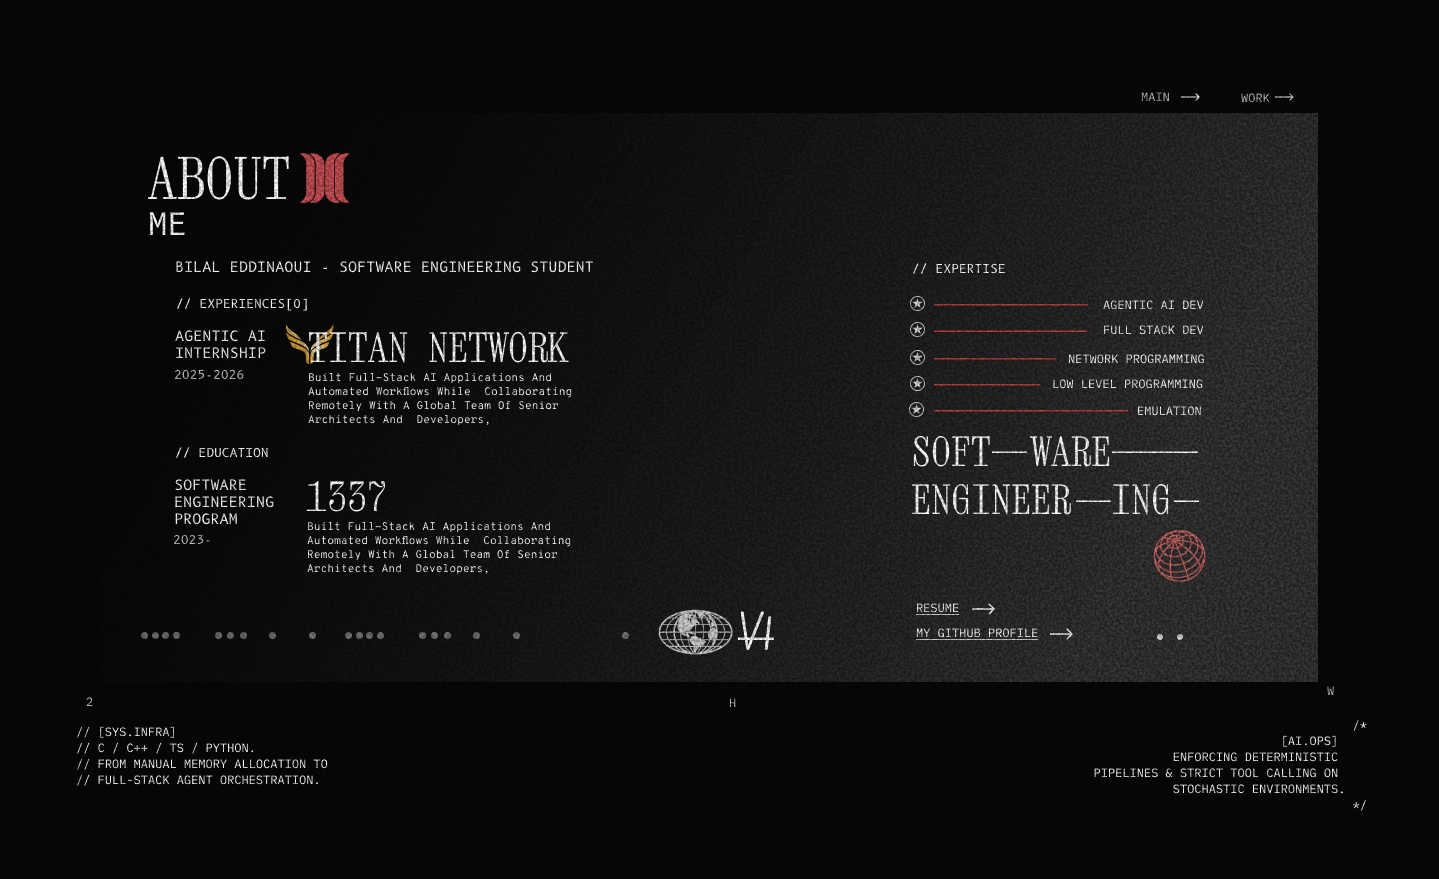
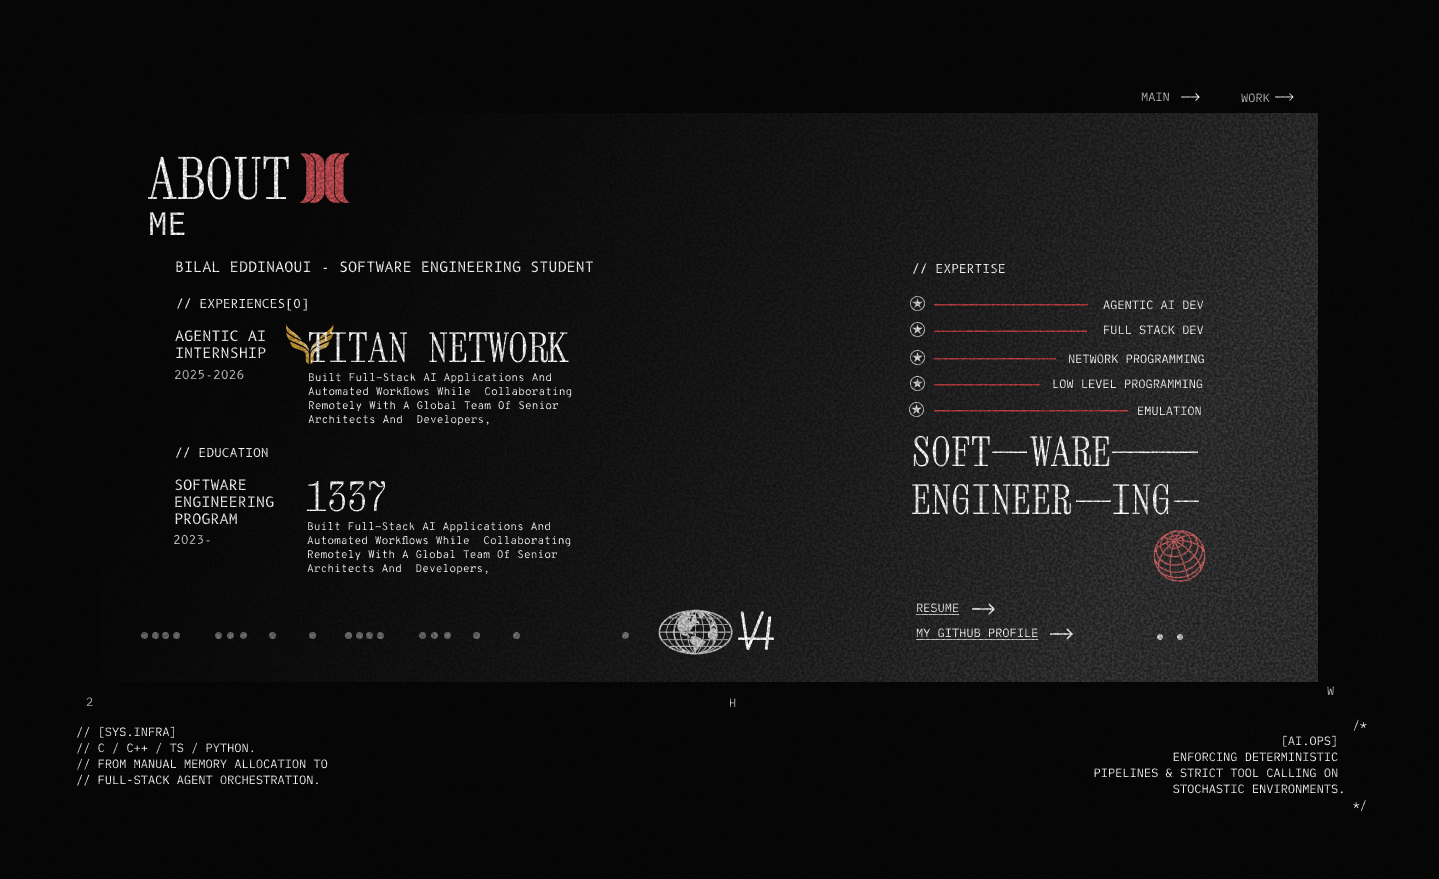
progress

diff --git a/assets/style.css b/assets/style.css
@@ -96,7 +96,7 @@ a {
 }
 
 p {
-	border: 1px solid yellow;
+	border: 1px solid rgb(70, 70, 70);
 	font-family: ibm_plex_mono;
 	text-transform: uppercase;
 	font-size: 12px;
@@ -168,7 +168,7 @@ body > div:nth-child(2) > div > div:nth-child(1) {
 }
 
 body > div:nth-child(2) > div > div:nth-child(1) > div {
-	/*border: 1px solid white;*/
+	border: 1px solid rgb(70, 70, 70);
 	width: 90%;
 }
 
@@ -177,7 +177,6 @@ body > div:nth-child(2) > div > div:nth-child(1) > div:nth-child(1) {
 	color: rgba(255,255,255,0.8);
 	padding: 0 2em;
 }
-
 
 body > div:nth-child(2) > div:nth-child(1) > div:nth-child(1) > div:nth-child(1) > h1:nth-child(1) {
 	font-family: 'xanh';
@@ -198,6 +197,7 @@ body > div:nth-child(2) > div:nth-child(1) > div:nth-child(1) > div:nth-child(1)
 	transform: translateY(3px);
 	filter: saturate(1.6);
 	opacity: 0.6;
+	border: 1px solid rgb(70, 70, 70);
 }
 
 body > div:nth-child(2) > div:nth-child(1) > div:nth-child(1) > div:nth-child(1) > h1:nth-child(2) {
@@ -227,6 +227,7 @@ body > div:nth-child(2) > div:nth-child(2) > div:nth-child(1) > div:nth-child(1)
 	/*transform: translate(-6px, -9px);*/
 	filter: saturate(1.1);
 	opacity: 0.6;
+	border: 1px solid rgb(70, 70, 70);
 }
 
 body > div:nth-child(2) > div:nth-child(2) > div:nth-child(1) > div:nth-child(1) > h1:nth-child(2) {
@@ -238,13 +239,12 @@ body > div:nth-child(2) > div:nth-child(2) > div:nth-child(1) > div:nth-child(1)
 	justify-content: start;
 }
 
-/**/
 
 body > div:nth-child(2) > div:nth-child(3) > div:nth-child(1) > div:nth-child(1) {
 	display: flex;
 	flex-direction: row;
 	flex-wrap: wrap;
-	align-items: start;
+	align-items: center;
 	justify-content: start;
 }
 
@@ -254,8 +254,8 @@ body > div:nth-child(2) > div:nth-child(3) > div:nth-child(1) > div:nth-child(1)
 	filter: saturate(1.1);
 	opacity: 0.6;
 	align-self: center;
-	border: 1px solid yellow;
 	transform: translate(.6em, -0.3em);
+	border: 1px solid rgb(70, 70, 70);
 }
 
 body > div:nth-child(2) > div:nth-child(3) > div:nth-child(1) > div:nth-child(1) > div {
@@ -281,7 +281,6 @@ body > div:nth-child(2) > div:nth-child(3) > div:nth-child(1) > div:nth-child(1)
 	font-size: 3.4em;
 }
 
-/**/
 
 body > div:nth-child(2) > div > div:nth-child(1) > div:nth-child(2) {
 	height: 70%;
@@ -296,9 +295,9 @@ body > div:nth-child(2) > div:nth-child(1) > div:nth-child(1) > div:nth-child(2)
 body > div:nth-child(2) > div:nth-child(1) > div:nth-child(1) > div:nth-child(2) > img{
 	height: 100%;
 	width: auto;
-	/*border: 1px solid red;*/
 	transform: scale(1.3) translateX(-10%) translateY(-8%);
 	filter: brightness(1) contrast(80%);
+	border: 1px solid rgb(70, 70, 70);
 }
 
 body > div:nth-child(2) > div > div:nth-child(1) > div:nth-child(3) {
@@ -352,6 +351,7 @@ body > div:nth-child(2) > div > div:nth-child(1) > div:nth-child(3) > div:nth-ch
 	width: auto;
 	opacity: 0.8;
 	transform: scale(1.1);
+	border: 1px solid rgb(70, 70, 70);
 }
 
 body > div:nth-child(2) > div > div:nth-child(1) > div:nth-child(3) > div:nth-child(2) > p {
@@ -370,10 +370,33 @@ body > div:nth-child(2) > div > div:nth-child(1) > div:nth-child(3) > div:nth-ch
 	transform: translateX(-2px);
 }
 
+/* /// // // */
+
 body > div:nth-child(2) > div > div:nth-child(2) {
 	width: 35%;
-	border: 1px solid red;
+	display: flex;
+	align-items: center;
+	justify-content: center;
+	border: 1px solid rgb(70, 70, 70);
 }
+
+body > div:nth-child(2) > div > div:nth-child(2) div {
+	border: 1px solid rgb(70, 70, 70);
+}
+
+body > div:nth-child(2) > div > div:nth-child(2) > div {
+	height: 90%;
+	width: 90%;
+	display: flex;
+	flex-direction: column;
+	align-items: center;
+	justify-content: center;
+}
+
+body > div:nth-child(2) > div:nth-child(1) > div:nth-child(2) > div {
+}
+
+/* // /// /// */
 
 .hidden { display: none; }
 .active { display: flex; }

diff --git a/index.html b/index.html
@@ -39,7 +39,9 @@
 						</div>
 					</div>
 				</div>
-				<div></div>
+				<div>
+					<div></div>
+				</div>
 			</div>
 			<div id='about_page' class='view hidden'>
 				<div>
@@ -63,12 +65,14 @@
 						</div>
 					</div>
 				</div>
-				<div></div>
+				<div>
+					<div></div>
+				</div>
 			</div>
 			<div id='work_page' class='view hidden'>
 				<div>
 					<div>
-						<img src="./assets/icons/gg21763787632048x2048.png">
+						<img src="./assets/icons/gettyimages-2176378REDFF1.png">
 						<div>
 							<h1>MY</h1>
 							<h1>WORK</h1>
@@ -90,7 +94,9 @@
 						</div>
 					</div>
 				</div>
-				<div></div>
+				<div>
+					<div></div>
+				</div>
 			</div>
 		</div>
 		<div id='cordinates'>
